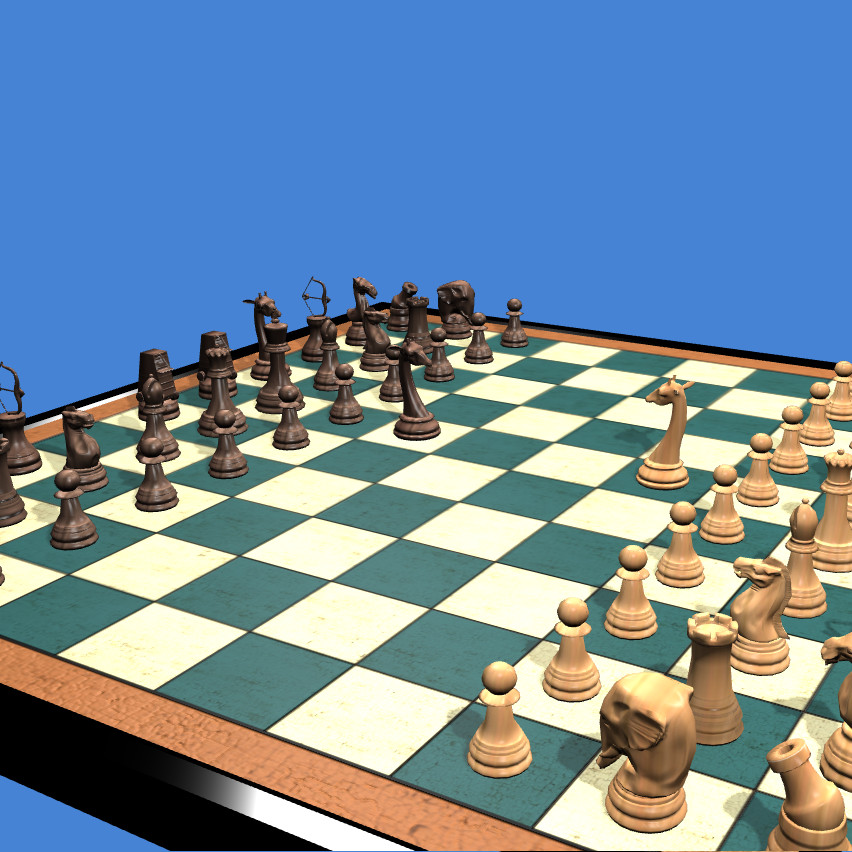
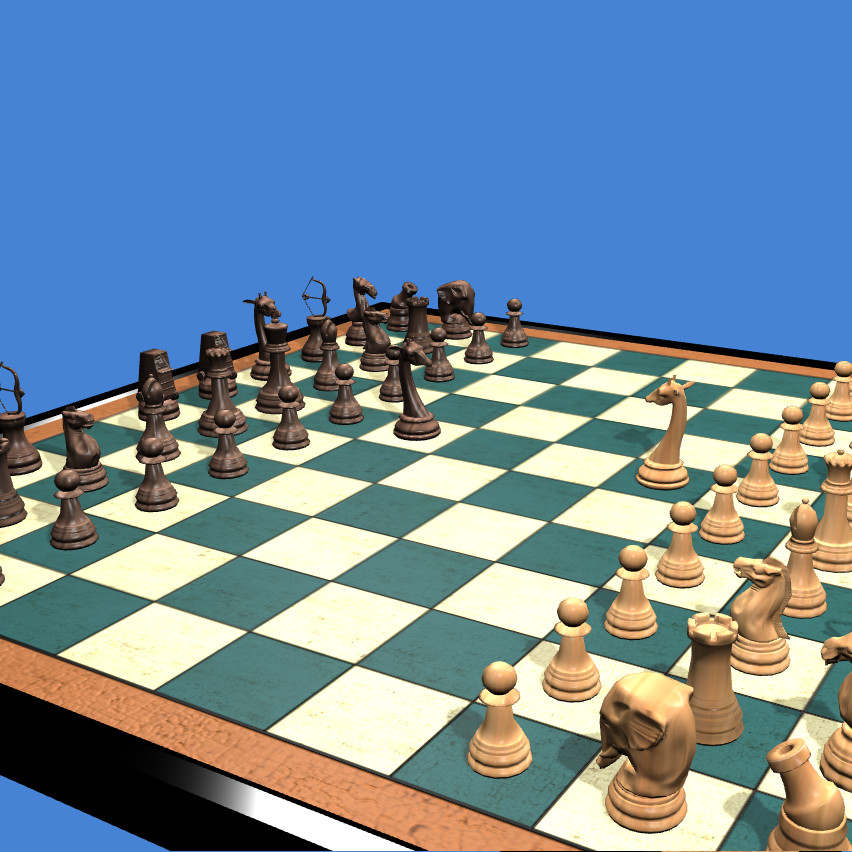
flying mate

diff --git a/src/games/chessbase/base-model.js b/src/games/chessbase/base-model.js
@@ -1272,6 +1272,38 @@
 		return this.cbGetAttackers(aGame,sole,who,100).length>0;
 	}
 
+	// Is there at least one legal move? Same test as GenerateMoves below, but it
+	// stops at the first move that holds, and it tries the moves of the royal
+	// pieces first - stepping out of the way answers most checks - so the usual
+	// answer costs one legality test instead of the whole move list. Only a real
+	// mate pays for the full scan. The UCT search uses it to recognize a mate as
+	// soon as the mating move is generated, instead of waiting until that node
+	// is expanded in its turn.
+	Model.Board.HasLegalMove = function(aGame) {
+		var moves=this.cbGeneratePseudoLegalMoves(aGame);
+		var multiRoyal=aGame.cbMaxRoyalRank>1;
+		var royal=[], other=[];
+		for(var i=0;i<moves.length;i++) {
+			var index=this.board[moves[i].f];
+			if(index>=0 && aGame.g.pTypes[this.pieces[index].t].isKing)
+				royal.push(moves[i]);
+			else
+				other.push(moves[i]);
+		}
+		moves=royal.concat(other);
+		for(var i=0;i<moves.length;i++) {
+			var move=moves[i];
+			var undo=this.cbQuickApply(aGame,move);
+			var inCheck=multiRoyal
+				? this.cbInLosingCheck(aGame,this.mWho)
+				: this.cbGetAttackers(aGame,this.kings[this.mWho],this.mWho,100).length>0;
+			this.cbQuickUnapply(aGame,undo);
+			if(!inCheck)
+				return true;
+		}
+		return false;
+	}
+
 	Model.Board.GenerateMoves = function(aGame) {
 		var moves=this.cbGeneratePseudoLegalMoves(aGame);
 		this.mMoves = [];

diff --git a/src/games/chessbase/base-view.js b/src/games/chessbase/base-view.js
@@ -627,12 +627,15 @@
 												// here: when a 3D skin is active the default 2D sprites are
 												// kept, and a 3D override (meshes, scales, ...) is never poured
 												// into the 2D spec.
-												var skinSpec = aspectSpec[xdv.game.mSkin], skin2d = false;
+												// aGame is the game object the view runs on, and jocly.game.js keeps the
+												// selected skin there (mSkin): read it from aGame, not from xdv.
+												var skinName = aGame.mSkin || (xdv.game && xdv.game.mSkin);
+												var skinSpec = skinName && aspectSpec[skinName], skin3d = false;
 												(aGame.mViewOptions && aGame.mViewOptions.skins || []).forEach(function(skin) {
-													if(skin.name == xdv.game.mSkin && !skin["3d"])
-														skin2d = true;
+													if(skin.name == skinName && skin["3d"])
+														skin3d = true;
 												});
-												if(skinSpec !== undefined && skin2d)
+												if(skinSpec && !skin3d)
 													aspectSpec["2d"] = $.extend(true,{},aspectSpec["2d"],skinSpec);
 												xdv.updateGadget("promo#"+move.pr, {
 													base: $.extend(aspectSpec["2d"], { 

diff --git a/src/core/jocly.uct.js b/src/core/jocly.uct.js
@@ -555,6 +555,14 @@ if(typeof WorkerGlobalScope == 'undefined' && typeof window == 'undefined') {
 								uctNodes[sign1]=node1;
 								node1.sign=sign1;
 							}
+							// A move that gives check may well be mate. Finding it out
+							// here, rather than when this node gets expanded in its
+							// turn, is what makes the search see a mate in one as a
+							// settled loss right away - it costs one cheap legality
+							// scan, and only on the moves that do give check.
+							if(move.ck && typeof board1.HasLegalMove == "function" &&
+							   !board1.HasLegalMove(aGame))
+								board1.GenerateMoves(aGame); // sets mFinished/mWinner
 							board1.Evaluate(aGame);
 							if(board1.mFinished) {
 								node1.known=true;

diff --git a/src/games/chessbase/index.js b/src/games/chessbase/index.js
@@ -9051,8 +9051,8 @@ exports.games = (function () {
 				"model": {
 					"title-en": "Tenjiku Shogi",
 					"summary": {
-						"en": "Historic 16x16 Shogi variant with Fire Demons",
-						"fr": "Variante historique de shogi en 16x16 avec démons de feu"
+						"en": "The 'exotic' shogi derived from Chu Shogi is the most extravagant and original of all historical variants.",
+						"fr": "Le shogi 'exotique' issu du chu shogi est la plus originale et extravagante des variantes historiques."
 					},
 					"rules": {
 						"en": "res/rules/shogi/tenjiku-rules.html",

diff --git a/src/games/chessbase/res/rules/shogi/mini-shogi-rules_fr.html b/src/games/chessbase/res/rules/shogi/mini-shogi-rules_fr.html
@@ -28,7 +28,7 @@
 
 <h2>Disposition Initiale</h2>
 
-<p style="text-align:center"><img style='max-width:100%' src="{GAME}/res/rules/shogi/mini-shogi-initial-2d.png"/></p>
+<p style="text-align:center"><img style='max-width:100%' src="{GAME}/res/rules/shogi/mini-shogi-initial-2d.jpg"/></p>
 <p>Il existe un jeu de pièces 2d avec des pictogrammes pour les joueurs qui ne sont pas familier avec la représentation traditionnelle (kanjis).</p>
 <p style="text-align:center"><img style='max-width:100%' src="{GAME}/res/rules/shogi/mini-shogi-initial-2d-western.png"/></p>
 

diff --git a/src/games/chessbase/res/rules/shogi/mini-shogi-rules.html b/src/games/chessbase/res/rules/shogi/mini-shogi-rules.html
@@ -31,7 +31,7 @@
 
 <h2>Initial setup</h2>
 
-<p style="text-align:center"><img style='max-width:100%' src="{GAME}/res/rules/shogi/mini-shogi-initial-2d.png"/></p>
+<p style="text-align:center"><img style='max-width:100%' src="{GAME}/res/rules/shogi/mini-shogi-initial-2d.jpg"/></p>
 <p>A skin with pictograms is available for players not familiar with the traditional japanese version.</p>
 <p style="text-align:center"><img style='max-width:100%' src="{GAME}/res/rules/shogi/mini-shogi-initial-2d-western.png"/></p>
 

diff --git a/src/games/chessbase/res/rules/shogi/tori-shogi-rules.html b/src/games/chessbase/res/rules/shogi/tori-shogi-rules.html
@@ -10,7 +10,7 @@
 
 <p>To win you have to checkmate the Phoenix of your opponent.</p>
 <p>A skin with pictograms is available for players not familiar with the traditional japanese version.</p>
-<p style="text-align:center"><img style='max-width:100%' src="{GAME}/res/rules/shogi/tori-shogi-initial-2d-pictos.png"/></p>
+<p style="text-align:center"><img style='max-width:100%' src="{GAME}/res/rules/shogi/tori-shogi-initial-2d-pictos.jpg"/></p>
 
 <h2>Board</h2>
 

diff --git a/tests/tenjiku-README.md b/tests/tenjiku-README.md
@@ -97,3 +97,14 @@ The two remaining candidates, both in `base-model.js` and both shared by every
 game, are `Model.Board.Evaluate` (~100 µs, and it allocates a dozen objects,
 two typed arrays and one array per piece type present on every call, most of
 which no game reads) and the `for(var pos1 in graph)` walk of the threat tree.
+
+### Seeing mate one ply earlier
+
+The UCT search only learned that a move was mate when the mating node was
+expanded in its turn, which in a game with 70+ legal moves per position costs a
+few thousand nodes per candidate. `Model.Board.HasLegalMove` (early-exit
+legality test, royal moves tried first) lets the search settle that as soon as
+the mating move is generated - and only for the moves that give check, whose
+`ck` flag the model already computes. Answering `1. j5-j6` correctly used to
+need 200000 nodes, then 60000 once checks were weighted; it now takes 5000
+(3 s), for about 15% more time per node.
